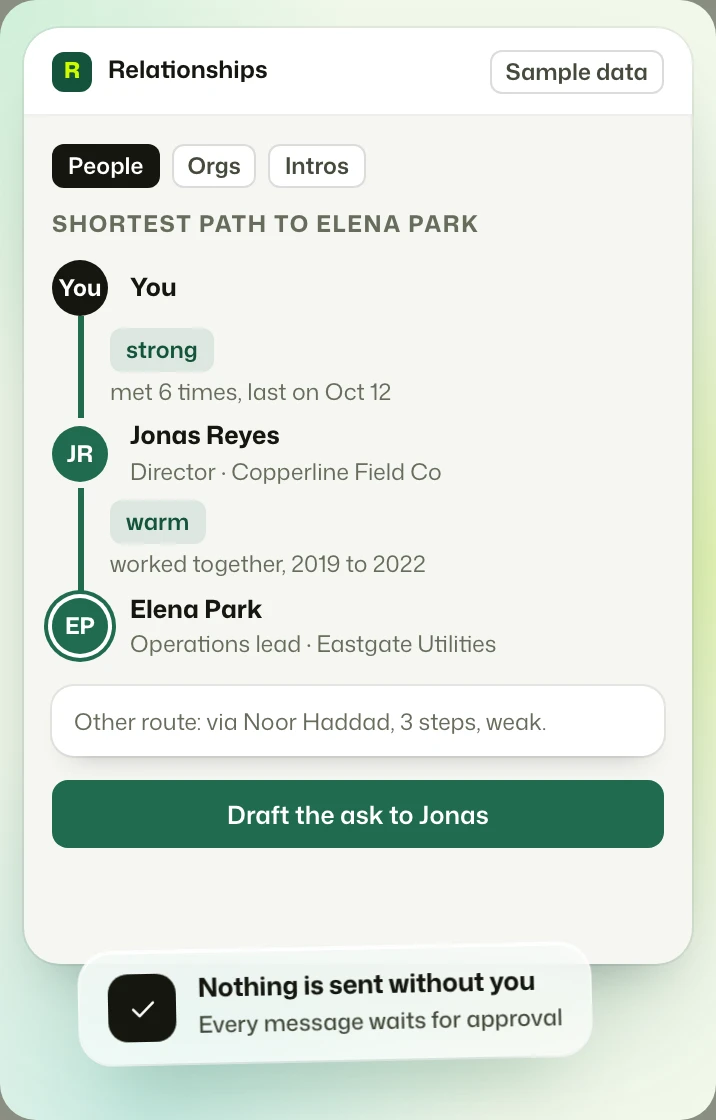
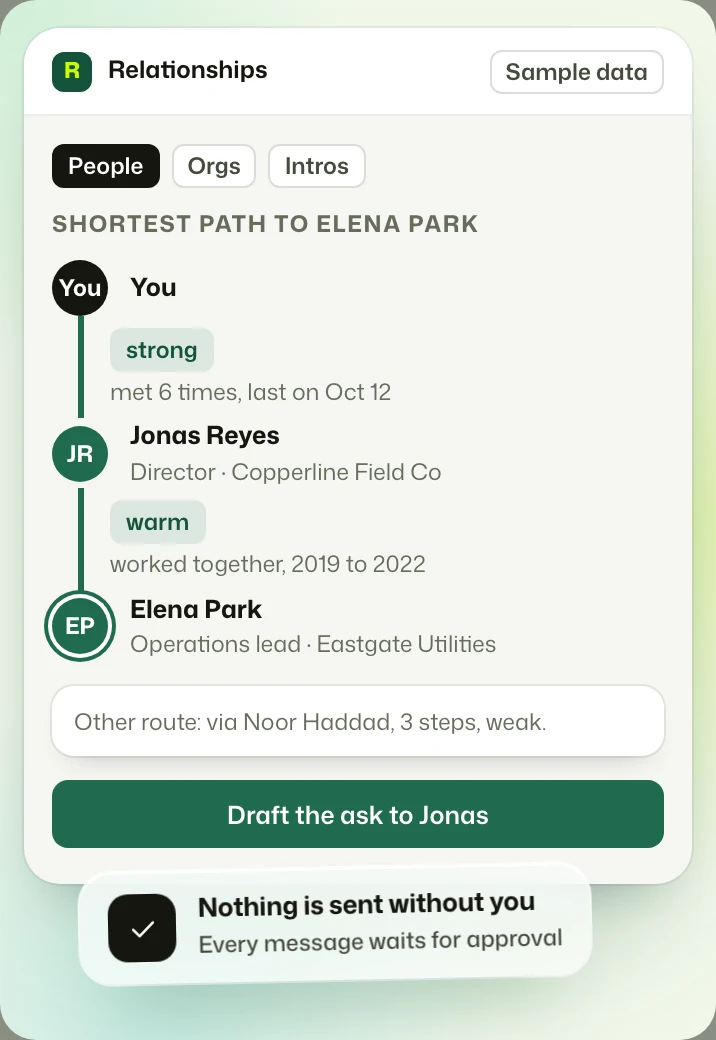
fix(revolution): trim the empty space under six phone screen crops
Relora brief, Woody calendar and review, growth funnel and action plan, Relora
graph: the window ended well below its content. Shorter windows and crops, same
files and names, new picture dimensions.

diff --git a/public/revolution/work.html b/public/revolution/work.html
@@ -2878,9 +2878,9 @@ html[data-mode="dark"] .pl3 img.pl3__tm[alt="Apollo"]{filter:invert(1)}
 <!-- /v4-cases -->
 <!-- real-screens -->
 <section class="s hm v4s rs" id="screens" data-theme="dark"><div class="c2"><div class="tl"><div class="hd"><span class="eyebrow chp">Screens</span><h2 data-split="lime">Tools<span>in use</span></h2></div><p class="pp">Sixteen screens from tools I use and build. Every number and name is sample data. The layouts, states and labels are the real ones.</p></div>
-<div class="rs__g"><div class="rs__hd"><h3>Woody</h3><p>Content Studio. Texts in a person's own voice, every claim tied to a source, a named person approving each version.</p></div><ul class="rs__rail" role="region" aria-label="Woody screens" tabindex="0"><li><figure><picture><source media="(max-width:640px)" srcset="assets/real/ui-woody-studio-m.webp" width="716" height="1060"><img src="assets/real/ui-woody-studio.webp" alt="Woody studio: a prompt, voice and channel options, and four texts waiting for review" width="1520" height="1000" loading="lazy" decoding="async"></picture><figcaption><b>Studio</b><span>One prompt, a voice and a channel. Four texts wait for a decision.</span></figcaption></figure></li><li><figure><picture><source media="(max-width:640px)" srcset="assets/real/ui-woody-review-m.webp" width="716" height="1144"><img src="assets/real/ui-woody-review.webp" alt="Woody review: a draft with struck-out phrases, a checklist and an approve button" width="1520" height="1000" loading="lazy" decoding="async"></picture><figcaption><b>Review</b><span>A draft with the edits shown. The reviewer checks voice, sources and client names, then approves.</span></figcaption></figure></li><li><figure><picture><source media="(max-width:640px)" srcset="assets/real/ui-woody-strategy-m.webp" width="716" height="1212"><img src="assets/real/ui-woody-strategy.webp" alt="Woody strategy: a grid of 42 book pages by status and a list of chapters with progress" width="1520" height="1000" loading="lazy" decoding="async"></picture><figcaption><b>Strategy</b><span>A 42-page content book, 18 pages ready. Next up is Benchmarks, page 5.</span></figcaption></figure></li><li><figure><picture><source media="(max-width:640px)" srcset="assets/real/ui-woody-texts-m.webp" width="716" height="1200"><img src="assets/real/ui-woody-texts.webp" alt="Woody texts: a table of 38 texts with channel, voice, status and checks" width="1520" height="1000" loading="lazy" decoding="async"></picture><figcaption><b>Texts</b><span>38 texts with channel, voice, status and checks. One claim without a source is held back.</span></figcaption></figure></li><li><figure><picture><source media="(max-width:640px)" srcset="assets/real/ui-woody-calendar-m.webp" width="716" height="1132"><img src="assets/real/ui-woody-calendar.webp" alt="Woody calendar: a month view with scheduled texts and a list of unscheduled ones" width="1520" height="1000" loading="lazy" decoding="async"></picture><figcaption><b>Calendar</b><span>Seven texts scheduled this month, three still unscheduled. Drag a text onto a day.</span></figcaption></figure></li><li><figure><picture><source media="(max-width:640px)" srcset="assets/real/ui-woody-sources-m.webp" width="716" height="1172"><img src="assets/real/ui-woody-sources.webp" alt="Woody sources: documents, notes and links with state, and claims taken from one source" width="1520" height="1000" loading="lazy" decoding="async"></picture><figcaption><b>Sources</b><span>96% of claims trace to a source. One source cannot be opened and holds its text back.</span></figcaption></figure></li><li><figure><picture><source media="(max-width:640px)" srcset="assets/real/ui-woody-setup-m.webp" width="716" height="1076"><img src="assets/real/ui-woody-setup.webp" alt="Woody setup: a voice with formal and short sliders and a voice match score" width="1520" height="1000" loading="lazy" decoding="async"></picture><figcaption><b>Setup</b><span>One voice per person or brand, scored by how well it matches three sample texts.</span></figcaption></figure></li><li><figure><picture><source media="(max-width:640px)" srcset="assets/real/ui-woody-licenses-m.webp" width="716" height="1200"><img src="assets/real/ui-woody-licenses.webp" alt="Woody control: a list of licenses with seats, state and last heartbeat" width="1520" height="1000" loading="lazy" decoding="async"></picture><figcaption><b>Licenses</b><span>The control app: seats, state and last heartbeat per customer. One license ends in nine days.</span></figcaption></figure></li><li><figure><picture><source media="(max-width:640px)" srcset="assets/real/ui-woody-license-m.webp" width="716" height="988"><img src="assets/real/ui-woody-license.webp" alt="Woody control: one ended license with seats, key, last heartbeat and a read-only notice" width="1520" height="1000" loading="lazy" decoding="async"></picture><figcaption><b>One license</b><span>An ended license keeps texts readable and pauses saving. Nothing is deleted.</span></figcaption></figure></li></ul></div>
-<div class="rs__g"><div class="rs__hd"><h3>Growth analytics</h3><p>Cohorts, funnels and an action plan on mature data. Cohorts that are still open stay grey.</p></div><ul class="rs__rail" role="region" aria-label="Growth analytics screens" tabindex="0"><li><figure><picture><source media="(max-width:640px)" srcset="assets/real/ui-b2c-summary-m.webp" width="716" height="1132"><img src="assets/real/ui-b2c-summary.webp" alt="Growth analytics summary: new patients, 90-day return, per-patient revenue and a cohort line chart" width="1520" height="1000" loading="lazy" decoding="async"></picture><figcaption><b>Summary</b><span>Volume up 43%, 90-day return down 6.6 points. Only cohorts old enough to count are counted.</span></figcaption></figure></li><li><figure><picture><source media="(max-width:640px)" srcset="assets/real/ui-b2c-cohorts-m.webp" width="716" height="1080"><img src="assets/real/ui-b2c-cohorts.webp" alt="Growth analytics cohorts: a heat table of return by monthly cohort" width="1520" height="1000" loading="lazy" decoding="async"></picture><figcaption><b>Cohorts</b><span>Safari on mobile fell to 12% at day 90, 11 points under the others, from the March cohort.</span></figcaption></figure></li><li><figure><picture><source media="(max-width:640px)" srcset="assets/real/ui-b2c-funnel-m.webp" width="716" height="1120"><img src="assets/real/ui-b2c-funnel.webp" alt="Growth analytics funnel: bars from product to paid and a phone showing a dead pay button" width="1520" height="1000" loading="lazy" decoding="async"></picture><figcaption><b>Funnel</b><span>36% reach payment, 14% pay on Safari mobile. The pay button does nothing and shows no error.</span></figcaption></figure></li><li><figure><picture><source media="(max-width:640px)" srcset="assets/real/ui-b2c-action-plan-m.webp" width="716" height="1180"><img src="assets/real/ui-b2c-action-plan.webp" alt="Growth analytics action plan: a table of actions with owner, effort, impact and status" width="1520" height="1000" loading="lazy" decoding="async"></picture><figcaption><b>Action plan</b><span>Fix the Safari payment step first: about 1,670 bookings a month. Every action has an owner and an effort.</span></figcaption></figure></li></ul></div>
-<div class="rs__g"><div class="rs__hd"><h3>Relora</h3><p>A relationship tool: who knows whom, and outreach drafts that wait for approval.</p></div><ul class="rs__rail" role="region" aria-label="Relora screens" tabindex="0"><li><figure><picture><source media="(max-width:640px)" srcset="assets/real/ui-relora-graph-m.webp" width="716" height="1120"><img src="assets/real/ui-relora-graph.webp" alt="Relora relationship graph with the shortest path to one contact" width="1520" height="1000" loading="lazy" decoding="async"></picture><figcaption><b>Relationships</b><span>The shortest path to a contact in two steps, through someone who knows them. Nothing is sent without you.</span></figcaption></figure></li><li><figure><picture><source media="(max-width:640px)" srcset="assets/real/ui-relora-brief-m.webp" width="716" height="1212"><img src="assets/real/ui-relora-brief.webp" alt="Relora contact brief: facts, notes, an email draft awaiting approval and a timeline" width="1520" height="1000" loading="lazy" decoding="async"></picture><figcaption><b>Contact brief</b><span>Public facts, private context and an email draft waiting for approval. Private notes stay private.</span></figcaption></figure></li></ul></div>
+<div class="rs__g"><div class="rs__hd"><h3>Woody</h3><p>Content Studio. Texts in a person's own voice, every claim tied to a source, a named person approving each version.</p></div><ul class="rs__rail" role="region" aria-label="Woody screens" tabindex="0"><li><figure><picture><source media="(max-width:640px)" srcset="assets/real/ui-woody-studio-m.webp" width="716" height="1060"><img src="assets/real/ui-woody-studio.webp" alt="Woody studio: a prompt, voice and channel options, and four texts waiting for review" width="1520" height="1000" loading="lazy" decoding="async"></picture><figcaption><b>Studio</b><span>One prompt, a voice and a channel. Four texts wait for a decision.</span></figcaption></figure></li><li><figure><picture><source media="(max-width:640px)" srcset="assets/real/ui-woody-review-m.webp" width="716" height="1028"><img src="assets/real/ui-woody-review.webp" alt="Woody review: a draft with struck-out phrases, a checklist and an approve button" width="1520" height="1000" loading="lazy" decoding="async"></picture><figcaption><b>Review</b><span>A draft with the edits shown. The reviewer checks voice, sources and client names, then approves.</span></figcaption></figure></li><li><figure><picture><source media="(max-width:640px)" srcset="assets/real/ui-woody-strategy-m.webp" width="716" height="1212"><img src="assets/real/ui-woody-strategy.webp" alt="Woody strategy: a grid of 42 book pages by status and a list of chapters with progress" width="1520" height="1000" loading="lazy" decoding="async"></picture><figcaption><b>Strategy</b><span>A 42-page content book, 18 pages ready. Next up is Benchmarks, page 5.</span></figcaption></figure></li><li><figure><picture><source media="(max-width:640px)" srcset="assets/real/ui-woody-texts-m.webp" width="716" height="1200"><img src="assets/real/ui-woody-texts.webp" alt="Woody texts: a table of 38 texts with channel, voice, status and checks" width="1520" height="1000" loading="lazy" decoding="async"></picture><figcaption><b>Texts</b><span>38 texts with channel, voice, status and checks. One claim without a source is held back.</span></figcaption></figure></li><li><figure><picture><source media="(max-width:640px)" srcset="assets/real/ui-woody-calendar-m.webp" width="716" height="984"><img src="assets/real/ui-woody-calendar.webp" alt="Woody calendar: a month view with scheduled texts and a list of unscheduled ones" width="1520" height="1000" loading="lazy" decoding="async"></picture><figcaption><b>Calendar</b><span>Seven texts scheduled this month, three still unscheduled. Drag a text onto a day.</span></figcaption></figure></li><li><figure><picture><source media="(max-width:640px)" srcset="assets/real/ui-woody-sources-m.webp" width="716" height="1172"><img src="assets/real/ui-woody-sources.webp" alt="Woody sources: documents, notes and links with state, and claims taken from one source" width="1520" height="1000" loading="lazy" decoding="async"></picture><figcaption><b>Sources</b><span>96% of claims trace to a source. One source cannot be opened and holds its text back.</span></figcaption></figure></li><li><figure><picture><source media="(max-width:640px)" srcset="assets/real/ui-woody-setup-m.webp" width="716" height="1076"><img src="assets/real/ui-woody-setup.webp" alt="Woody setup: a voice with formal and short sliders and a voice match score" width="1520" height="1000" loading="lazy" decoding="async"></picture><figcaption><b>Setup</b><span>One voice per person or brand, scored by how well it matches three sample texts.</span></figcaption></figure></li><li><figure><picture><source media="(max-width:640px)" srcset="assets/real/ui-woody-licenses-m.webp" width="716" height="1200"><img src="assets/real/ui-woody-licenses.webp" alt="Woody control: a list of licenses with seats, state and last heartbeat" width="1520" height="1000" loading="lazy" decoding="async"></picture><figcaption><b>Licenses</b><span>The control app: seats, state and last heartbeat per customer. One license ends in nine days.</span></figcaption></figure></li><li><figure><picture><source media="(max-width:640px)" srcset="assets/real/ui-woody-license-m.webp" width="716" height="988"><img src="assets/real/ui-woody-license.webp" alt="Woody control: one ended license with seats, key, last heartbeat and a read-only notice" width="1520" height="1000" loading="lazy" decoding="async"></picture><figcaption><b>One license</b><span>An ended license keeps texts readable and pauses saving. Nothing is deleted.</span></figcaption></figure></li></ul></div>
+<div class="rs__g"><div class="rs__hd"><h3>Growth analytics</h3><p>Cohorts, funnels and an action plan on mature data. Cohorts that are still open stay grey.</p></div><ul class="rs__rail" role="region" aria-label="Growth analytics screens" tabindex="0"><li><figure><picture><source media="(max-width:640px)" srcset="assets/real/ui-b2c-summary-m.webp" width="716" height="1132"><img src="assets/real/ui-b2c-summary.webp" alt="Growth analytics summary: new patients, 90-day return, per-patient revenue and a cohort line chart" width="1520" height="1000" loading="lazy" decoding="async"></picture><figcaption><b>Summary</b><span>Volume up 43%, 90-day return down 6.6 points. Only cohorts old enough to count are counted.</span></figcaption></figure></li><li><figure><picture><source media="(max-width:640px)" srcset="assets/real/ui-b2c-cohorts-m.webp" width="716" height="1080"><img src="assets/real/ui-b2c-cohorts.webp" alt="Growth analytics cohorts: a heat table of return by monthly cohort" width="1520" height="1000" loading="lazy" decoding="async"></picture><figcaption><b>Cohorts</b><span>Safari on mobile fell to 12% at day 90, 11 points under the others, from the March cohort.</span></figcaption></figure></li><li><figure><picture><source media="(max-width:640px)" srcset="assets/real/ui-b2c-funnel-m.webp" width="716" height="988"><img src="assets/real/ui-b2c-funnel.webp" alt="Growth analytics funnel: bars from product to paid and a phone showing a dead pay button" width="1520" height="1000" loading="lazy" decoding="async"></picture><figcaption><b>Funnel</b><span>36% reach payment, 14% pay on Safari mobile. The pay button does nothing and shows no error.</span></figcaption></figure></li><li><figure><picture><source media="(max-width:640px)" srcset="assets/real/ui-b2c-action-plan-m.webp" width="716" height="1096"><img src="assets/real/ui-b2c-action-plan.webp" alt="Growth analytics action plan: a table of actions with owner, effort, impact and status" width="1520" height="1000" loading="lazy" decoding="async"></picture><figcaption><b>Action plan</b><span>Fix the Safari payment step first: about 1,670 bookings a month. Every action has an owner and an effort.</span></figcaption></figure></li></ul></div>
+<div class="rs__g"><div class="rs__hd"><h3>Relora</h3><p>A relationship tool: who knows whom, and outreach drafts that wait for approval.</p></div><ul class="rs__rail" role="region" aria-label="Relora screens" tabindex="0"><li><figure><picture><source media="(max-width:640px)" srcset="assets/real/ui-relora-graph-m.webp" width="716" height="1040"><img src="assets/real/ui-relora-graph.webp" alt="Relora relationship graph with the shortest path to one contact" width="1520" height="1000" loading="lazy" decoding="async"></picture><figcaption><b>Relationships</b><span>The shortest path to a contact in two steps, through someone who knows them. Nothing is sent without you.</span></figcaption></figure></li><li><figure><picture><source media="(max-width:640px)" srcset="assets/real/ui-relora-brief-m.webp" width="716" height="920"><img src="assets/real/ui-relora-brief.webp" alt="Relora contact brief: facts, notes, an email draft awaiting approval and a timeline" width="1520" height="1000" loading="lazy" decoding="async"></picture><figcaption><b>Contact brief</b><span>Public facts, private context and an email draft waiting for approval. Private notes stay private.</span></figcaption></figure></li></ul></div>
 <div class="rs__g"><div class="rs__hd"><h3>Recruitify</h3><p>A private build: a job search board with a fit score on every role.</p></div><ul class="rs__rail" role="region" aria-label="Recruitify screens" tabindex="0"><li><figure><picture><source media="(max-width:640px)" srcset="assets/real/ui-recruit-board-m.webp" width="716" height="1044"><img src="assets/real/ui-recruit-board.webp" alt="Recruitify board: roles in columns from saved to offer with fit scores" width="1520" height="1000" loading="lazy" decoding="async"></picture><figcaption><b>Board</b><span>Roles by stage, each with a fit score. Two interviews this week.</span></figcaption></figure></li></ul></div>
 </div></section>
 <!-- /real-screens -->

diff --git a/public/revolution/growth.html b/public/revolution/growth.html
@@ -2853,7 +2853,7 @@ html[data-mode="dark"] .pl3 img.pl3__tm[alt="Apollo"]{filter:invert(1)}
       <p class="lh__lead">Growth as a system: experiments, activation, retention, and lifecycle loops measured in revenue, not vanity metrics.</p>
       <div class="lh__btns"><a class="btn" href="#book">Book a call <i>→</i></a><a class="btn btn--o" href="#case">See the case <i>↓</i></a></div>
     </div>
-    <figure class="lh__fig"><picture><source media="(max-width:640px)" srcset="assets/real/ui-b2c-funnel-m.webp" width="716" height="1120"><img src="assets/real/ui-b2c-funnel.webp" alt="Funnel from product to paid by browser: on Safari mobile only 14% pay, against 31% on Chrome, with the payment step marked" width="1520" height="1000" fetchpriority="high"></picture><figcaption>Sample data · Funnel by browser, the payment step marked</figcaption></figure>
+    <figure class="lh__fig"><picture><source media="(max-width:640px)" srcset="assets/real/ui-b2c-funnel-m.webp" width="716" height="988"><img src="assets/real/ui-b2c-funnel.webp" alt="Funnel from product to paid by browser: on Safari mobile only 14% pay, against 31% on Chrome, with the payment step marked" width="1520" height="1000" fetchpriority="high"></picture><figcaption>Sample data · Funnel by browser, the payment step marked</figcaption></figure>
   </div>
 </section>
 
@@ -2875,7 +2875,7 @@ html[data-mode="dark"] .pl3 img.pl3__tm[alt="Apollo"]{filter:invert(1)}
 </div></section>
 
 <section class="s gr-rw" data-theme="light"><div class="gr-w">
-  <article class="gr-row"><a class="gr-row__s" href="apps/service-growth-analytics.html"><picture><source media="(max-width:640px)" srcset="assets/real/ui-b2c-action-plan-m.webp" width="716" height="1180"><img src="assets/real/ui-b2c-action-plan.webp" alt="Action plan: five actions with owner, effort and impact, the Safari payment step first" width="1520" height="1000" loading="lazy" decoding="async"></picture><span>Illustrative numbers · same method ↗</span></a>
+  <article class="gr-row"><a class="gr-row__s" href="apps/service-growth-analytics.html"><picture><source media="(max-width:640px)" srcset="assets/real/ui-b2c-action-plan-m.webp" width="716" height="1096"><img src="assets/real/ui-b2c-action-plan.webp" alt="Action plan: five actions with owner, effort and impact, the Safari payment step first" width="1520" height="1000" loading="lazy" decoding="async"></picture><span>Illustrative numbers · same method ↗</span></a>
     <div><span class="gr-row__n">01</span><h3>Weekly experiments</h3><p>A ranked backlog, one test a week, results read in revenue.</p>
       <ul><li>A backlog ranked by impact, confidence and ease</li><li>One test a week</li><li>Results read in revenue</li></ul><p class="gr-tl"><small>Built with</small><span>PostHog</span><span>GA4</span></p></div></article>
   <article class="gr-row"><a class="gr-row__s" href="apps/service-growth-analytics.html"><picture><source media="(max-width:640px)" srcset="assets/real/ui-b2c-cohorts-m.webp" width="716" height="1080"><img src="assets/real/ui-b2c-cohorts.webp" alt="Return by monthly cohort at day 0, 7, 30, 60 and 90, with the Safari mobile cohort dropping to 12%" width="1520" height="1000" loading="lazy" decoding="async"></picture><span>App · Service growth analytics ↗</span></a>

diff --git a/public/revolution/gtm.html b/public/revolution/gtm.html
@@ -2888,7 +2888,7 @@ html[data-mode="dark"] .pl3 img.pl3__tm[alt="Apollo"]{filter:invert(1)}
       <div class="gt-r__t"><h3>Outbound</h3><p>Account lists scored on buying signals, with AI drafts a person approves.</p>
         <ul><li>ICP score from real buying signals</li><li>A drafted first line per account</li><li>A human check before anything is sent</li></ul>
         <p class="gt-tl"><small>Built with</small><span>Apollo</span><span>Clearbit</span><span>LinkedIn</span><span>Claude</span></p></div>
-      <a class="gt-r__s" href="https://relora-jet.vercel.app/" target="_blank" rel="noopener"><picture><source media="(max-width:640px)" srcset="assets/real/ui-relora-brief-m.webp" width="716" height="1212"><img src="assets/real/ui-relora-brief.webp" alt="Relora contact brief: public facts, private context and an email draft that waits for approval" width="1520" height="1000" loading="lazy" decoding="async"></picture><span>App · Relora ↗</span></a></article>
+      <a class="gt-r__s" href="https://relora-jet.vercel.app/" target="_blank" rel="noopener"><picture><source media="(max-width:640px)" srcset="assets/real/ui-relora-brief-m.webp" width="716" height="920"><img src="assets/real/ui-relora-brief.webp" alt="Relora contact brief: public facts, private context and an email draft that waits for approval" width="1520" height="1000" loading="lazy" decoding="async"></picture><span>App · Relora ↗</span></a></article>
   </div>
 </div></section>
 
